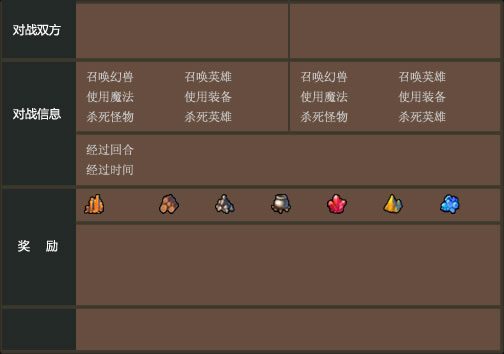
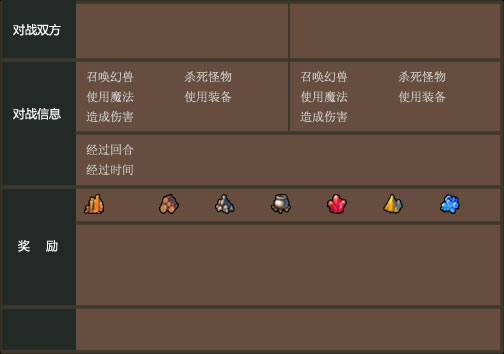
BattleResultForm now can calculate damage

diff --git a/TaleofMonsters2/Controler/Battle/BattleResultForm.cs b/TaleofMonsters2/Controler/Battle/BattleResultForm.cs
@@ -75,12 +75,13 @@ namespace TaleofMonsters.Controler.Battle
                 resource[0] = resource[0]*(100 + battleInfo.GoldRatePlus)/100;
                 exp = exp*(100 + battleInfo.ExpRatePlus)/100;
 
+               // battleInfo.Items.Insert();
                 for (int i = 0; i < battleInfo.Items.Count; i++)
                 {
                     rewardItemList.Add(battleInfo.Items[i]);
-                    if (i < 4)
+                    if (i < 5)
                     {
-                        virtualRegion.SetRegionInfo(i + 1, battleInfo.Items[i]); //前4个掉落可以显示出来
+                        virtualRegion.SetRegionInfo(i + 1, battleInfo.Items[i]); //前5个掉落可以显示出来
                     }
                 }
 
@@ -197,17 +198,15 @@ namespace TaleofMonsters.Controler.Battle
                 BattleInfo battleInfo = BattleManager.Instance.BattleInfo;
                 e.Graphics.DrawString(string.Format("{0,2:D}", battleInfo.Left.MonsterAdd), font2, Brushes.White, 159, 103);
                 e.Graphics.DrawString(string.Format("{0,2:D}", battleInfo.Left.SpellAdd), font2, Brushes.White, 159, 123);
-                e.Graphics.DrawString(string.Format("{0,2:D}", battleInfo.Left.HeroAdd), font2, Brushes.White, 259, 103);
+                e.Graphics.DrawString(string.Format("{0,2:D}", battleInfo.Left.Kill), font2, Brushes.White, 259, 103);
                 e.Graphics.DrawString(string.Format("{0,2:D}", battleInfo.Left.WeaponAdd), font2, Brushes.White, 259, 123);
-                e.Graphics.DrawString(string.Format("{0,2:D}", battleInfo.Left.Kill), font2, Brushes.White, 159, 143);
-                e.Graphics.DrawString(string.Format("{0,2:D}", battleInfo.Left.HeroKill), font2, Brushes.White, 259, 143);
+                e.Graphics.DrawString(GetDamageStr(battleInfo.Left.DamageTotal) , font2, Brushes.White, 159, 143);
 
                 e.Graphics.DrawString(string.Format("{0,2:D}", battleInfo.Right.MonsterAdd), font2, Brushes.White, 373, 103);
                 e.Graphics.DrawString(string.Format("{0,2:D}", battleInfo.Right.SpellAdd), font2, Brushes.White, 373, 123);
-                e.Graphics.DrawString(string.Format("{0,2:D}", battleInfo.Right.HeroAdd), font2, Brushes.White, 473, 103);
+                e.Graphics.DrawString(string.Format("{0,2:D}", battleInfo.Right.Kill), font2, Brushes.White, 473, 103);
                 e.Graphics.DrawString(string.Format("{0,2:D}", battleInfo.Right.WeaponAdd), font2, Brushes.White, 473, 123);
-                e.Graphics.DrawString(string.Format("{0,2:D}", battleInfo.Right.Kill), font2, Brushes.White, 373, 143);
-                e.Graphics.DrawString(string.Format("{0,2:D}", battleInfo.Right.HeroKill), font2, Brushes.White, 473, 143);
+                e.Graphics.DrawString(GetDamageStr(battleInfo.Right.DamageTotal), font2, Brushes.White, 373, 143);
 
                 TimeSpan span = battleInfo.EndTime - battleInfo.StartTime;
                 e.Graphics.DrawString(string.Format("{0:00}:{1:00}:{2:00}", span.Hours, span.Minutes, span.Seconds), font2, Brushes.White, 158, 195);
@@ -223,5 +222,18 @@ namespace TaleofMonsters.Controler.Battle
             }
         }
 
+        private static string GetDamageStr(int dam)
+        {
+            if (dam < 100)
+            {
+                return string.Format("{0,2:D}", dam);
+            }
+            if (dam < 1000)
+            {
+                return dam.ToString();
+            }
+            return string.Format("{0}K", dam/1000);
+        }
+        
     }
 }

diff --git a/TaleofMonsters2/Controler/Battle/Data/MemMonster/LiveMonster.cs b/TaleofMonsters2/Controler/Battle/Data/MemMonster/LiveMonster.cs
@@ -319,7 +319,6 @@ namespace TaleofMonsters.Controler.Battle.Data.MemMonster
                         UserProfile.Profile.OnKillMonster(Avatar.MonsterConfig.Star, Avatar.MonsterConfig.Type, Avatar.MonsterConfig.Type);
                     }
                 }
-                BattleManager.Instance.BattleInfo.GetPlayer(!IsLeft).HeroKill++;
                 OwnerPlayer.IsAlive = false;
             }
             else
@@ -487,6 +486,7 @@ namespace TaleofMonsters.Controler.Battle.Data.MemMonster
 
         private void OnDamage(HitDamage damage)
         {
+            BattleManager.Instance.BattleInfo.GetPlayer(!IsLeft).DamageTotal+=damage.Value;
             BattleManager.Instance.FlowWordQueue.Add(new FlowDamageInfo(damage, CenterPosition), false);//掉血显示
         }
 

diff --git a/TaleofMonsters2/Controler/Battle/DataTent/BattleInfo.cs b/TaleofMonsters2/Controler/Battle/DataTent/BattleInfo.cs
@@ -66,8 +66,7 @@ namespace TaleofMonsters.Controler.Battle.DataTent
         public int MonsterAdd { get; set; }
         public int WeaponAdd { get; set; }
         public int SpellAdd { get; set; }
-        public int HeroAdd { get; set; }
         public int Kill { get; set; }
-        public int HeroKill { get; set; }
+        public int DamageTotal { get; set; }
     }
 }

diff --git a/TaleofMonsters2/DataType/Mazes/MazeItem.cs b/TaleofMonsters2/DataType/Mazes/MazeItem.cs
@@ -11,7 +11,7 @@ namespace TaleofMonsters.DataType.Mazes
 {
     internal class MazeItem
     {
-        public int Id { get; }
+        public int Id { get; private set; }
         public MazeItemConfig MazeItemConfig;
         public int mlevel;
         private int[] infos;
